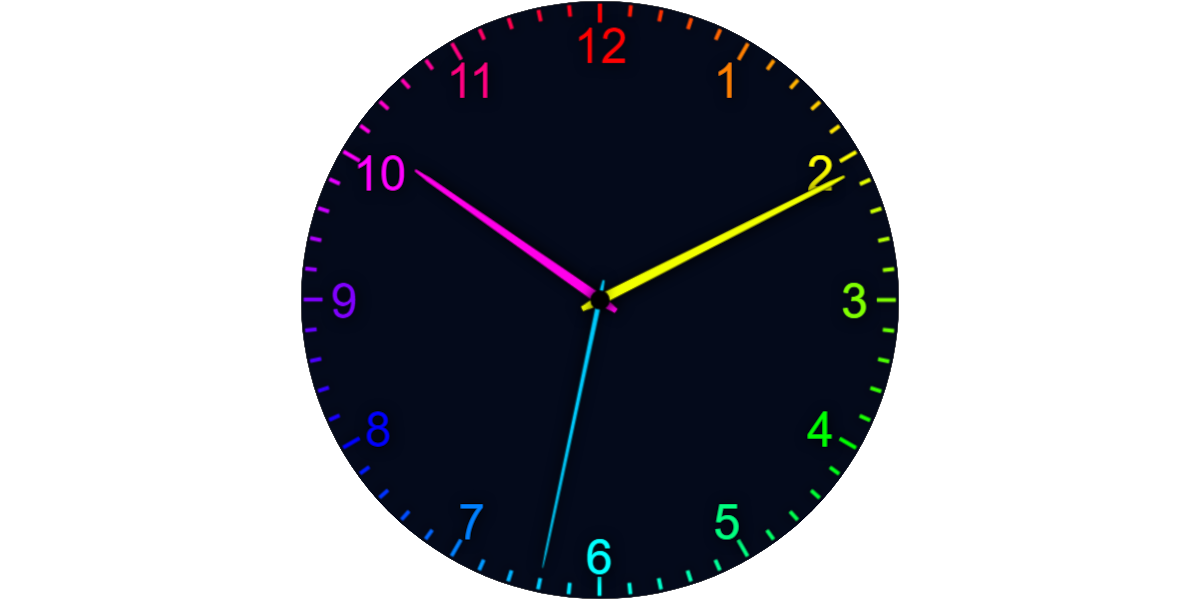
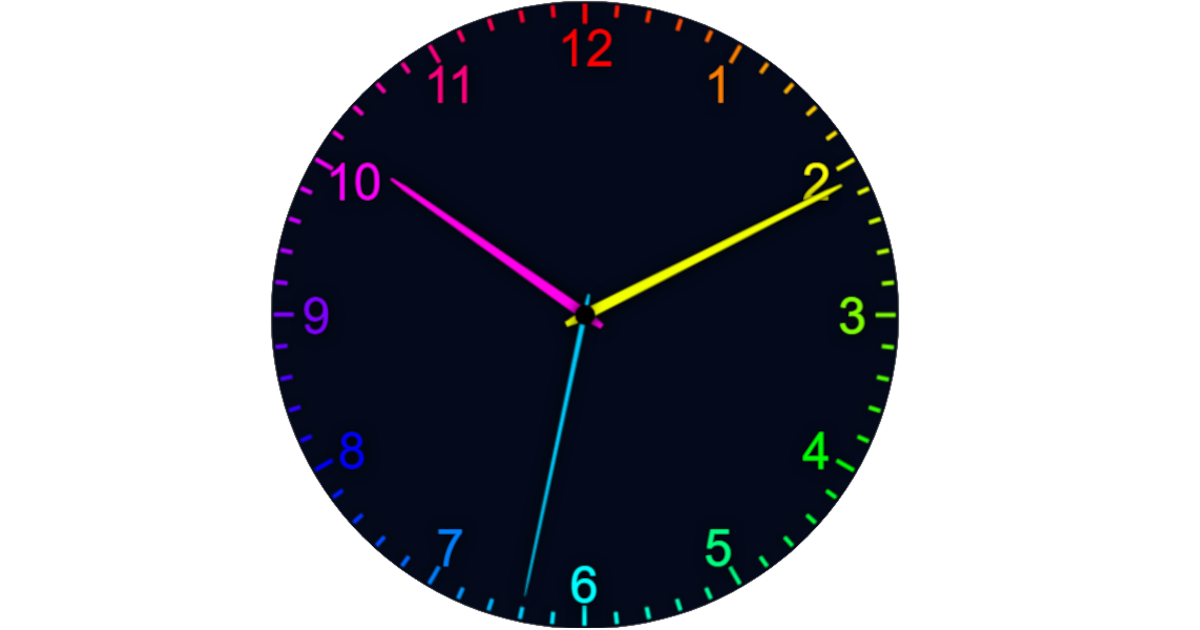
fix: fixes og image

diff --git a/public/index.html b/public/index.html
@@ -7,10 +7,10 @@
   <meta name="keywords" content="clock,analog,color-wheel,hue,color,wheel,hsl,saturation,lightness">
   <meta property="og:title" content="Hue Clock" />
   <meta property="og:description" content="A nice analog clock, colored based on color-wheel" />
-  <meta property="og:image" content="https://hue-clock.johanna-herrmann.de/img/opengraph.png" />
+  <meta property="og:image" content="https://hue-clock.johanna-herrmann.de/img/opengraph-image.png" />
   <meta property="og:image:type" content="image/png" />
   <meta property="og:image:width" content="1200" />
-  <meta property="og:image:height" content="600" />
+  <meta property="og:image:height" content="630" />
   <title>Hue Clock</title>
   <link rel="icon" href="/favicon.ico" sizes="any" />
   <link rel="icon" href="/img/icon.svg" type="image/svg" sizes="any" />
